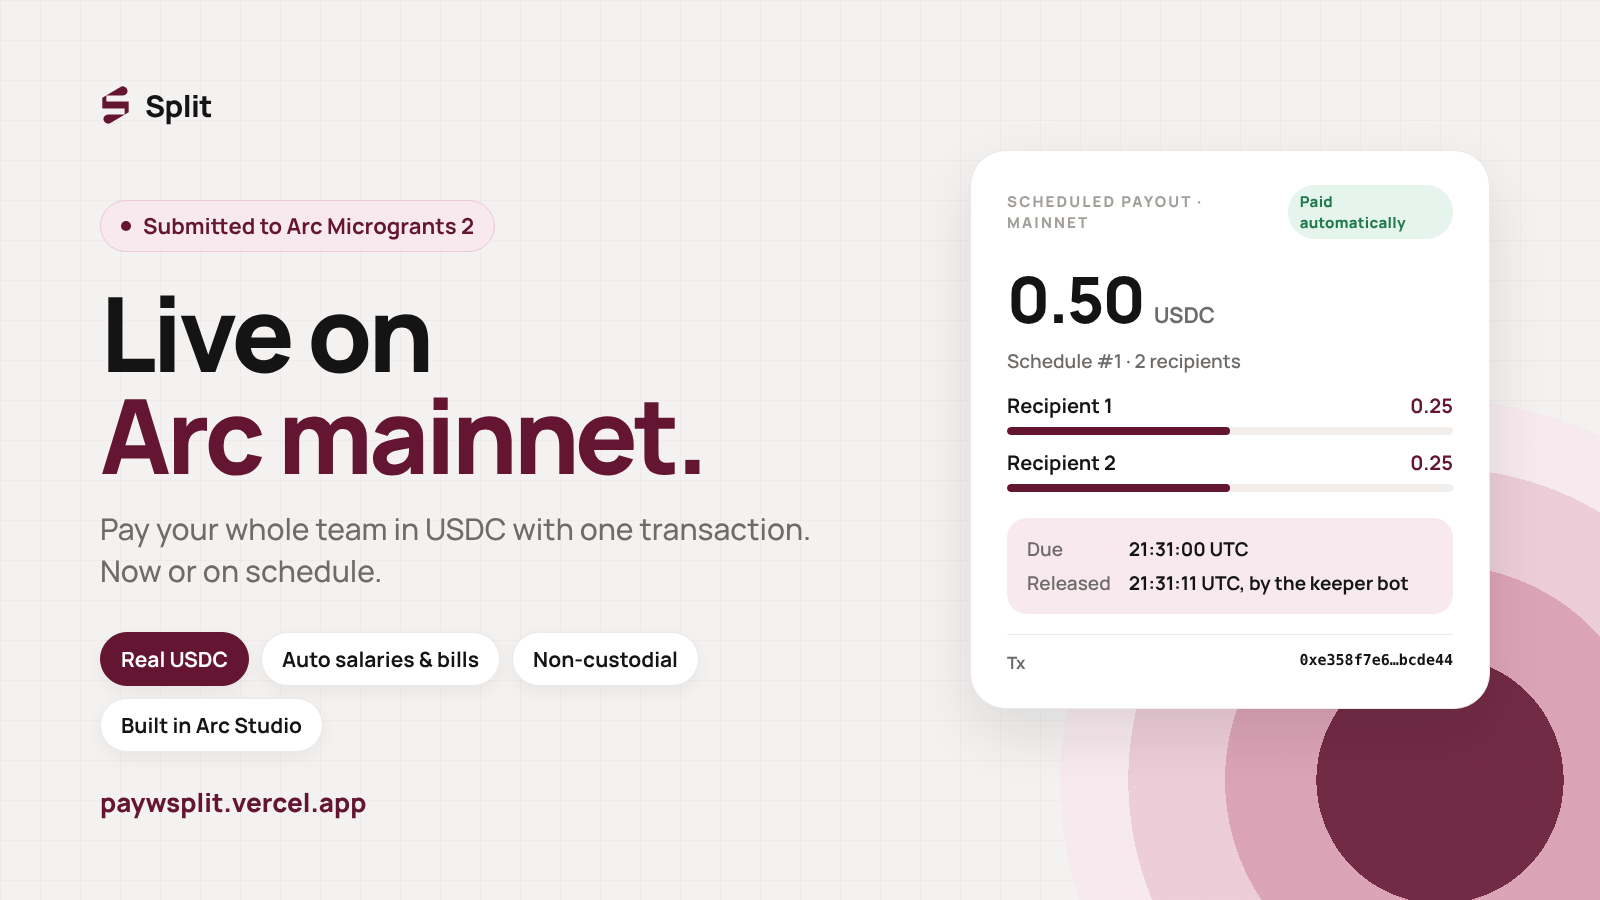
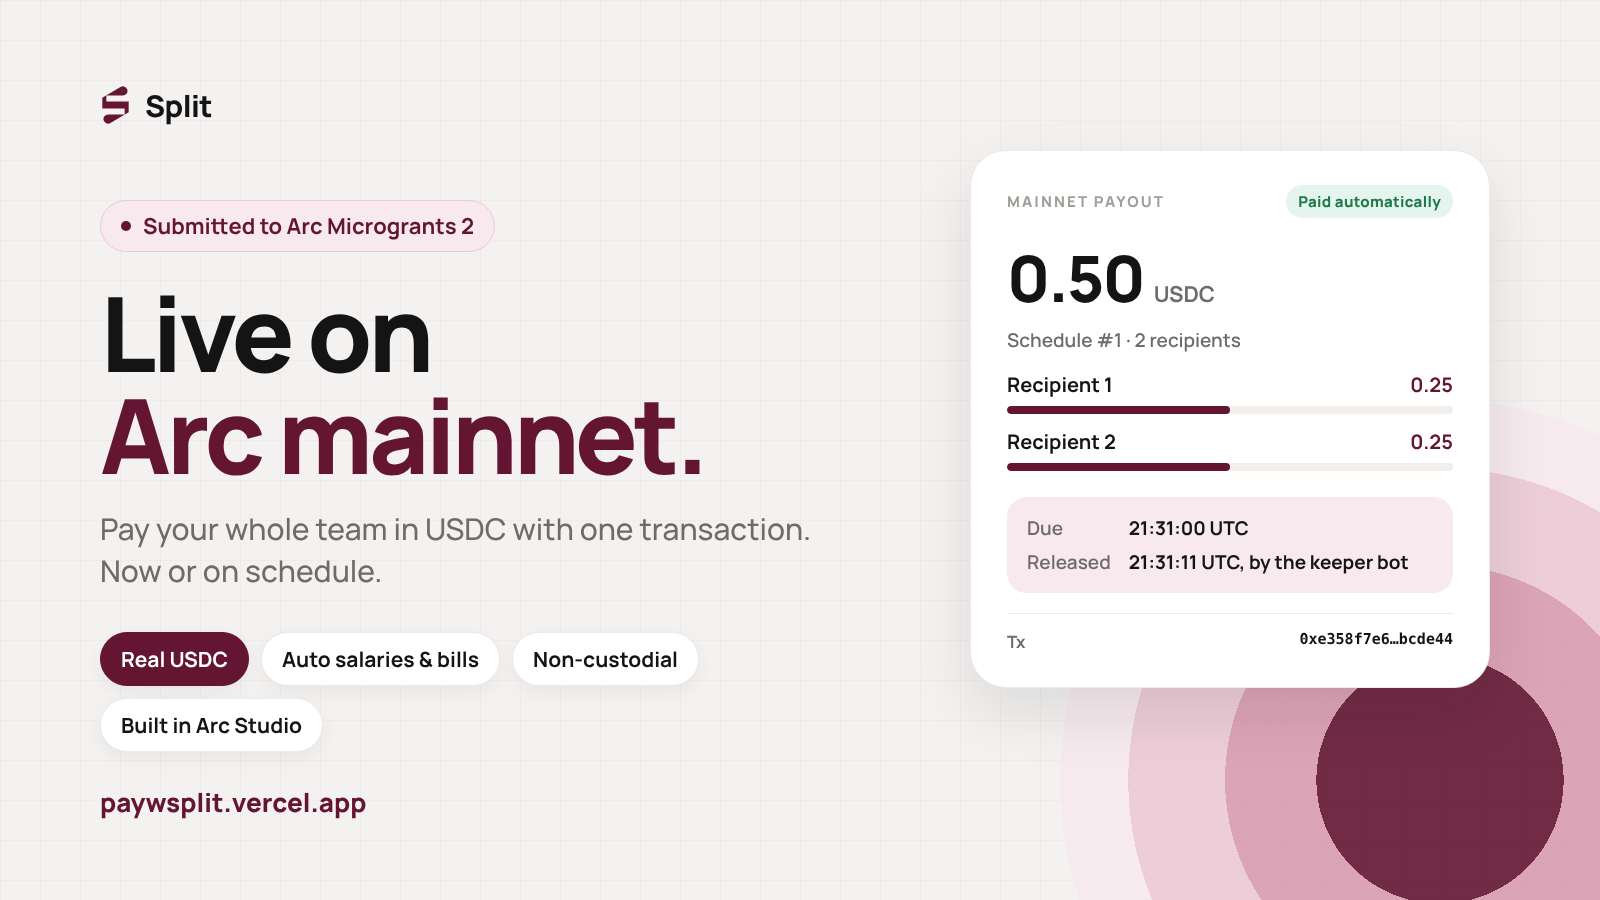
Tidy update graphic card header
Claude-Session: https://claude.ai/code/session_01DcimF9K3fx1W5BQTtTzGuG

diff --git a/design/social/update-mainnet.html b/design/social/update-mainnet.html
@@ -23,7 +23,7 @@ p{margin:0;font-size:30px;line-height:1.4;color:#6F6B68;font-weight:500}
 .card{position:absolute;right:110px;top:150px;width:520px;background:#fff;border-radius:36px;padding:34px 36px;
  box-shadow:0 24px 60px rgba(20,20,20,.10);border:1px solid #ECEAE8}
 .lab{display:flex;justify-content:space-between;align-items:center;font-size:15px;letter-spacing:.14em;font-weight:800;color:#A29E9A}
-.status{font-size:15px;font-weight:800;color:#1E7A4C;background:#E5F4EC;padding:6px 12px;border-radius:999px;letter-spacing:.02em}
+.status{white-space:nowrap;font-size:15px;font-weight:800;color:#1E7A4C;background:#E5F4EC;padding:6px 12px;border-radius:999px;letter-spacing:.02em}
 .pay{display:flex;align-items:baseline;gap:10px;margin:16px 0 6px}
 .pay b{font-size:64px;font-weight:800;letter-spacing:-0.03em}.pay small{font-size:22px;color:#6F6B68;font-weight:700}
 .sub{font-size:19px;color:#6F6B68;font-weight:600;margin-bottom:18px}
@@ -48,7 +48,7 @@ p{margin:0;font-size:30px;line-height:1.4;color:#6F6B68;font-weight:500}
 </div>
 <div class="url">paywsplit.vercel.app</div>
 <div class="card">
- <div class="lab">SCHEDULED PAYOUT · MAINNET <span class="status">Paid automatically</span></div>
+ <div class="lab">MAINNET PAYOUT <span class="status">Paid automatically</span></div>
  <div class="pay"><b>0.50</b><small>USDC</small></div>
  <div class="sub">Schedule #1 · 2 recipients</div>
  <div class="row"><span>Recipient 1</span><em>0.25</em></div><div class="bar"><i></i></div>
